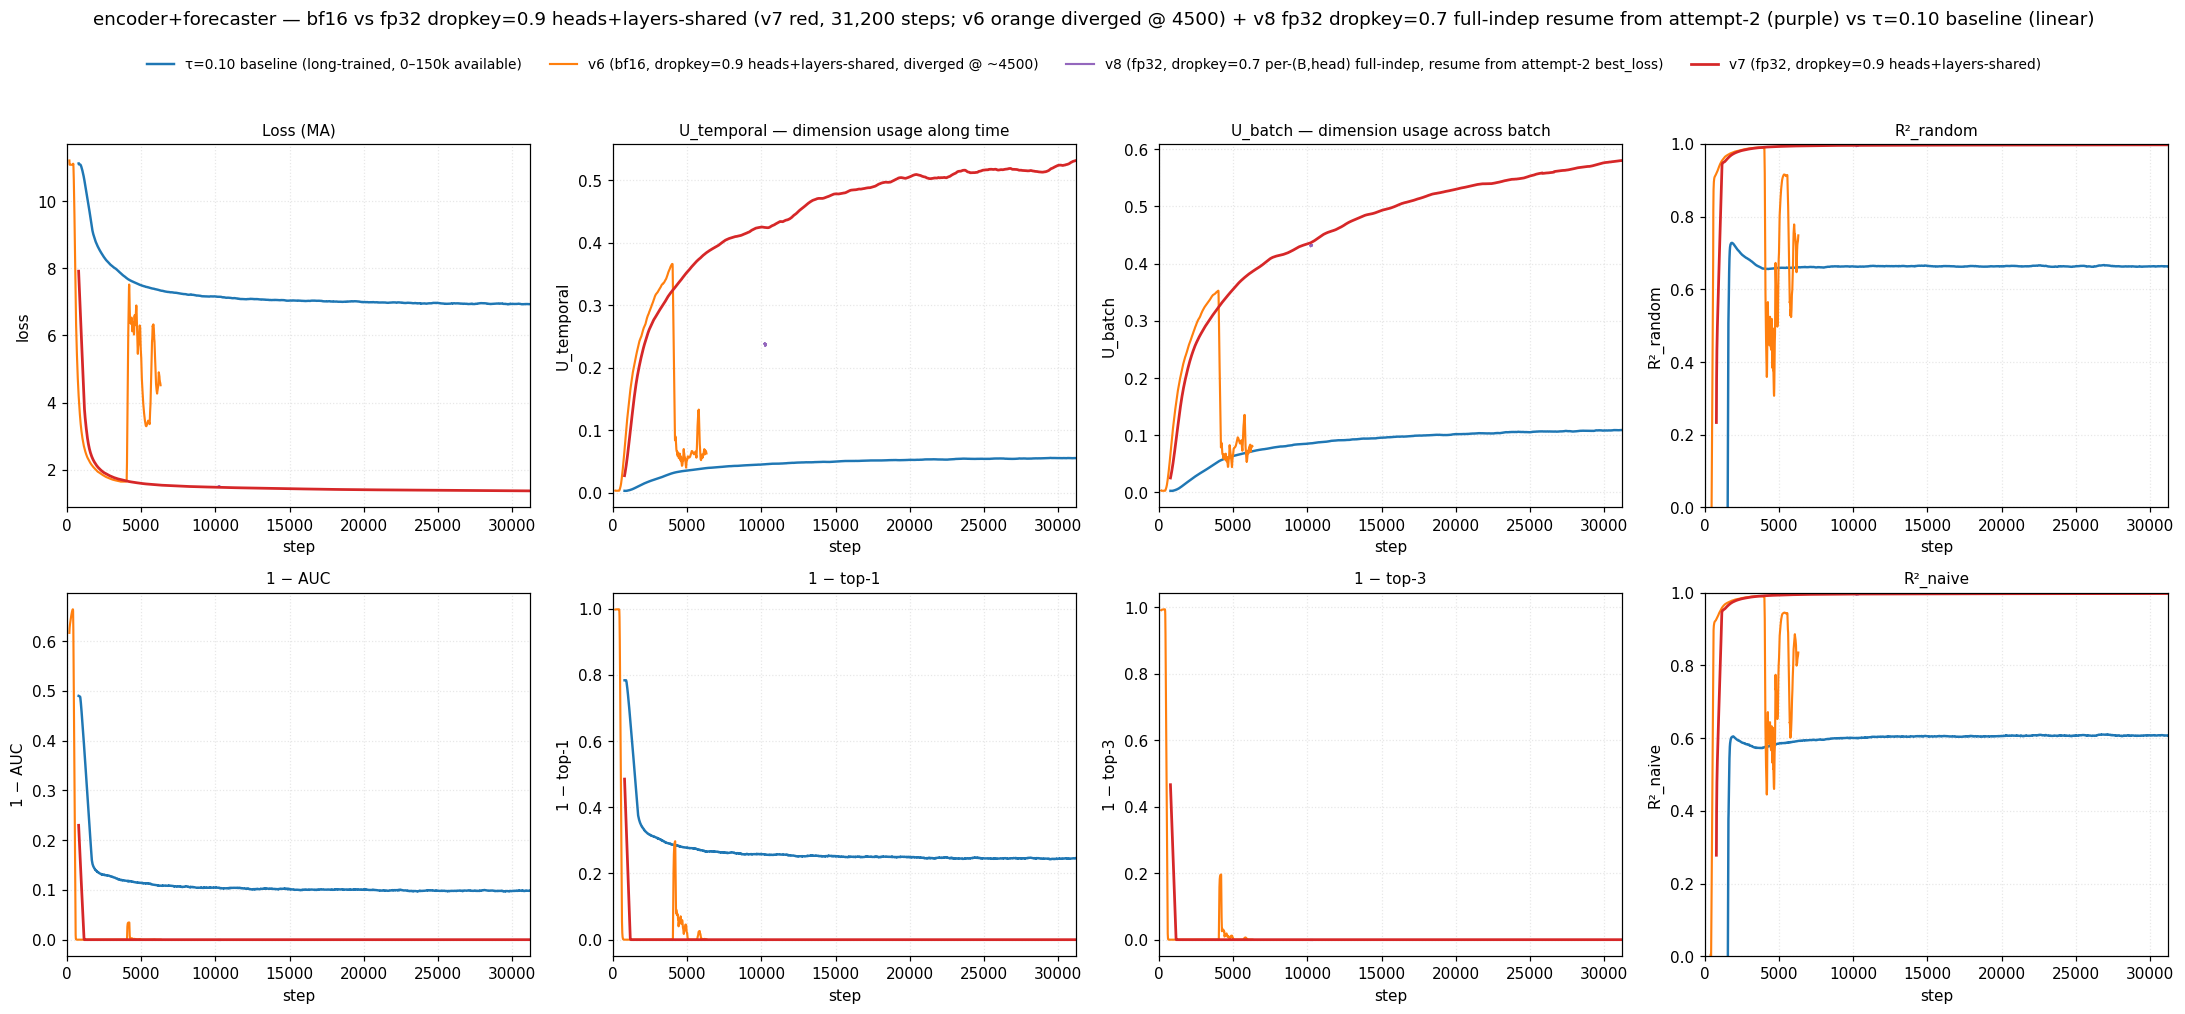
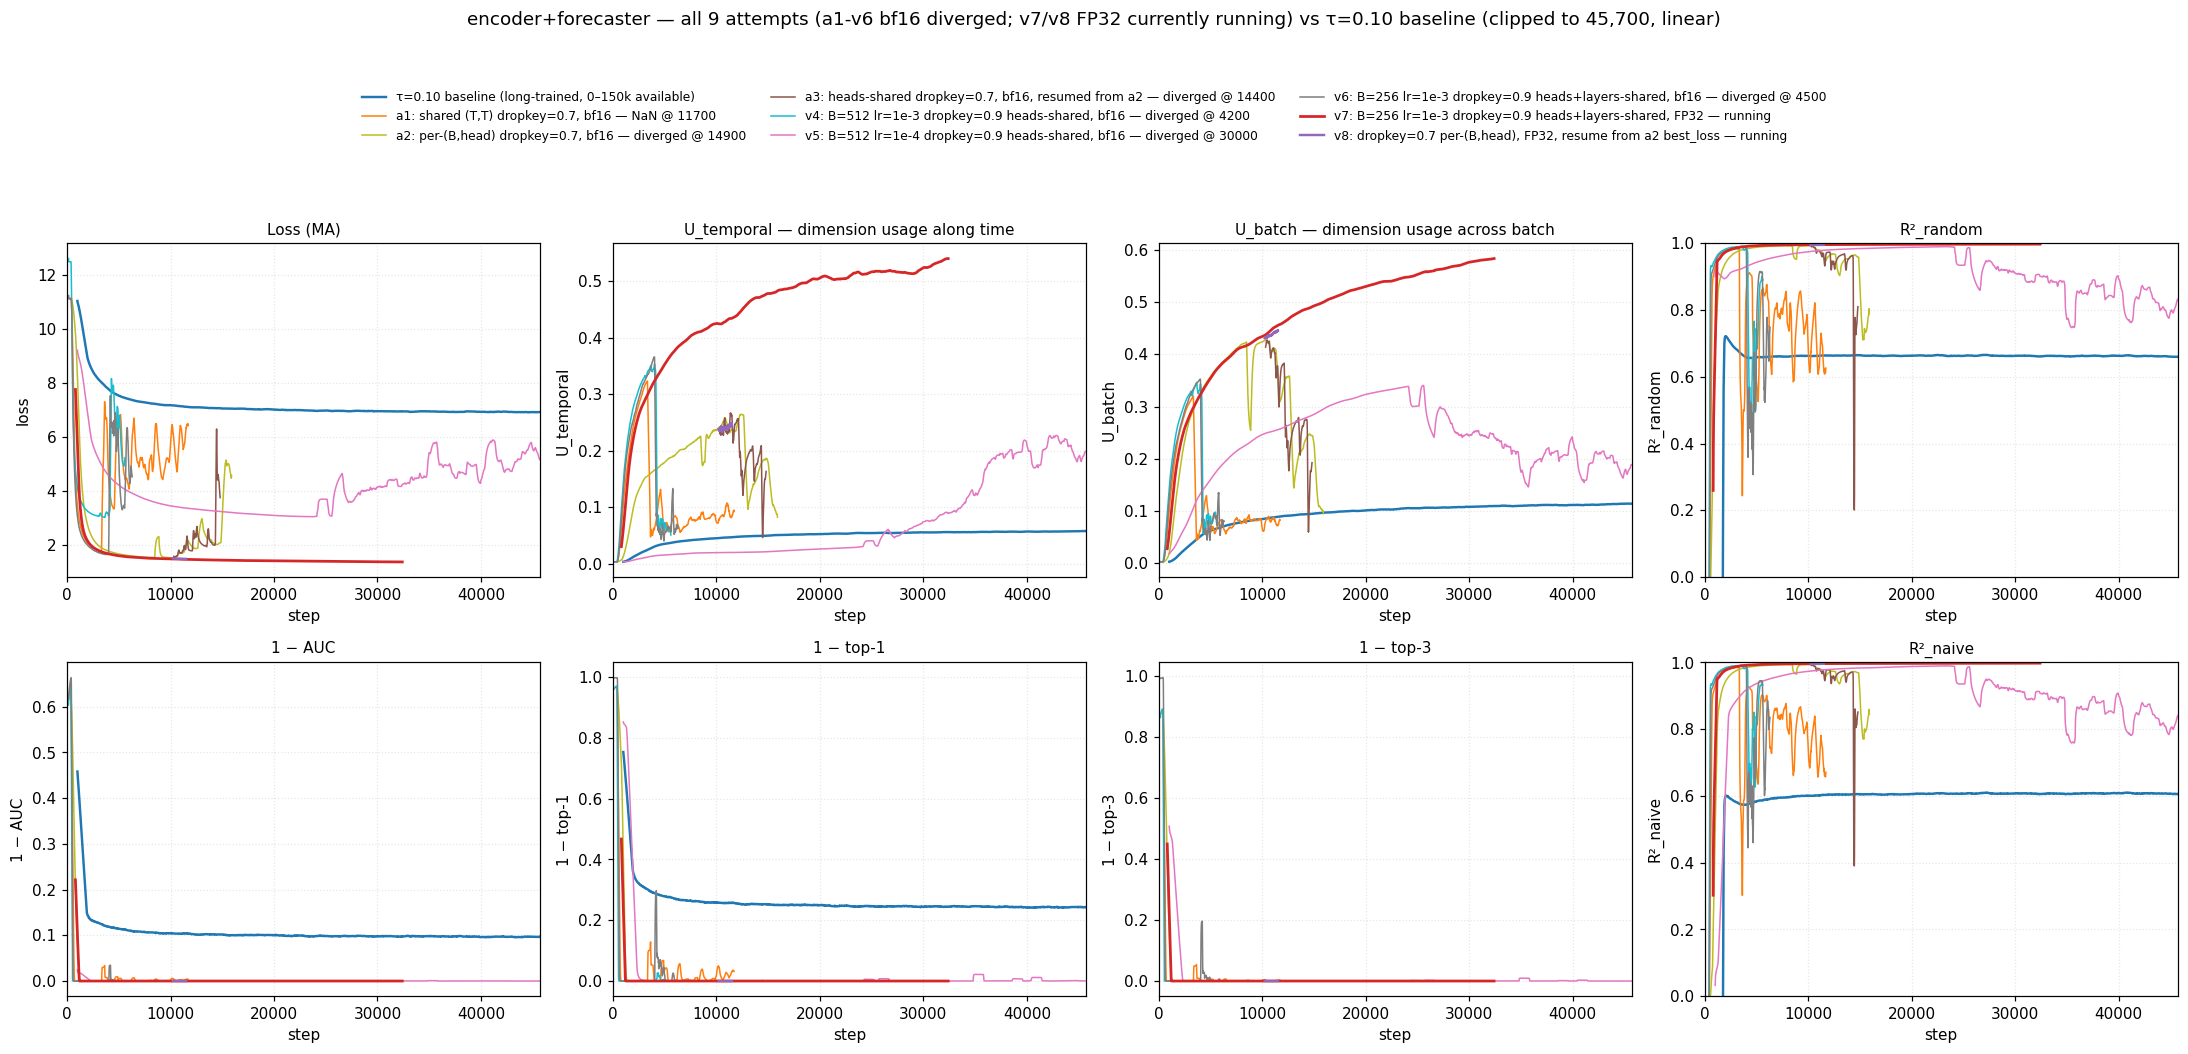
plot: full 9-arm history view (a1/a2/a3/v4/v5/v6 diverged bf16, v7/v8 fp32 live)

diff --git a/experiments/2026-05-11_exp_encoder_forecaster/scripts/plot_progress.py b/experiments/2026-05-11_exp_encoder_forecaster/scripts/plot_progress.py
@@ -1,5 +1,5 @@
 #!/usr/bin/env python3
-"""Progress plot — 3-arm comparison: baseline / v6 bf16 / v7 fp32.
+"""Progress plot — 9-arm full-history comparison.
 
 Reads per-step training-batch metrics from the losses CSVs and renders a
 2x4 panel of trajectories smoothed with a moving average:
@@ -63,13 +63,17 @@ OUT_LOG.parent.mkdir(parents=True, exist_ok=True)
 MAIN = Path("/home/jupyter/contrastive-forecasting")
 
 # Color palette: saturated, high-contrast.
-#   - τ=0.10 baseline (long-trained, concatenated chunks) → tab:blue
-#   - v6 (bf16, dropkey=0.9 heads+layers-shared, diverged @ ~4500) → tab:orange
-#   - v7 / headline (fp32, dropkey=0.9 heads+layers-shared) → tab:red
+# 9-arm full history. Diverged/dead arms (a1..v6) use lw=1.0 to recede;
+# live arms v7 (red) and v8 (purple) get heavier strokes.
 C_BASELINE = "#1f77b4"  # tab:blue
-C_V6 = "#ff7f0e"  # tab:orange
-C_V7 = "#d62728"  # tab:red
-C_V8 = "#9467bd"  # purple
+C_A1 = "#ff7f0e"        # orange
+C_A2 = "#bcbd22"        # olive
+C_A3 = "#8c564b"        # brown
+C_V4 = "#17becf"        # cyan
+C_V5 = "#e377c2"        # pink
+C_V6 = "#7f7f7f"        # grey
+C_V7 = "#d62728"        # red (headline live)
+C_V8 = "#9467bd"        # purple (live)
 
 # τ=0.10 baseline is split across resume chunks. Concatenate in step
 # order; on overlap, the earliest chunk's row wins.
@@ -80,28 +84,55 @@ BASELINE_CHUNKS = [
     MAIN / "sync_tau_sweep_0_10_150k/checkpoints/tau_sweep_0_10_150k_losses.csv",   # 48001–150000
 ]
 
+A1_CSV = MAIN / "checkpoints/enc_fcst_dropkey07_50k_attempt1_losses.csv"
+A2_CSV = MAIN / "checkpoints/enc_fcst_dropkey07_pb_50k_attempt2_losses.csv"
+A3_CSV = MAIN / "checkpoints/enc_fcst_dropkey07_pb_hs_50k_attempt3_losses.csv"
+V4_CSV = MAIN / "checkpoints/enc_fcst_dk09_hs_b512_lr1e-3_attempt1_losses.csv"
+V5_CSV = MAIN / "checkpoints/enc_fcst_dk09_hs_b512_lr1e-4_50k_attempt1_losses.csv"
 V6_CSV = MAIN / "checkpoints/enc_fcst_dk09_hsl_b256_50k_bf16_attempt1_losses.csv"
 V7_CSV = MAIN / "checkpoints/enc_fcst_dk09_hsl_b256_fp32_50k_losses.csv"
 V8_CSV = MAIN / "checkpoints/enc_fcst_dk07_pb_fp32_resume_50k_losses.csv"
 NEW_ARM_CSV = V7_CSV
 
 # (display_label, color, linestyle, lw, csv_path_or_chunks, is_concat)
+# Order: chronological (baseline → a1 → a2 → a3 → v4 → v5 → v6 → v7 → v8).
+# Diverged arms (a1..v6) get lw=1.0 so they recede behind the live arms.
 ARMS = [
     ("τ=0.10 baseline (long-trained, 0–150k available)",
      C_BASELINE, "-", 1.6,
      BASELINE_CHUNKS,
      True),
-    ("v6 (bf16, dropkey=0.9 heads+layers-shared, diverged @ ~4500)",
-     C_V6, "-", 1.4,
+    ("a1: shared (T,T) dropkey=0.7, bf16 — NaN @ 11700",
+     C_A1, "-", 1.0,
+     A1_CSV,
+     False),
+    ("a2: per-(B,head) dropkey=0.7, bf16 — diverged @ 14900",
+     C_A2, "-", 1.0,
+     A2_CSV,
+     False),
+    ("a3: heads-shared dropkey=0.7, bf16, resumed from a2 — diverged @ 14400",
+     C_A3, "-", 1.0,
+     A3_CSV,
+     False),
+    ("v4: B=512 lr=1e-3 dropkey=0.9 heads-shared, bf16 — diverged @ 4200",
+     C_V4, "-", 1.0,
+     V4_CSV,
+     False),
+    ("v5: B=512 lr=1e-4 dropkey=0.9 heads-shared, bf16 — diverged @ 30000",
+     C_V5, "-", 1.0,
+     V5_CSV,
+     False),
+    ("v6: B=256 lr=1e-3 dropkey=0.9 heads+layers-shared, bf16 — diverged @ 4500",
+     C_V6, "-", 1.0,
      V6_CSV,
      False),
-    ("v8 (fp32, dropkey=0.7 per-(B,head) full-indep, resume from attempt-2 best_loss)",
-     C_V8, "-", 1.4,
-     V8_CSV,
-     False),
-    ("v7 (fp32, dropkey=0.9 heads+layers-shared)",
+    ("v7: B=256 lr=1e-3 dropkey=0.9 heads+layers-shared, FP32 — running",
      C_V7, "-", 1.8,
      V7_CSV,
+     False),
+    ("v8: dropkey=0.7 per-(B,head), FP32, resume from a2 best_loss — running",
+     C_V8, "-", 1.6,
+     V8_CSV,
      False),
 ]
 
@@ -286,17 +317,20 @@ def render_figure(traj, *, logx, logy_metrics, out_path, scale_tag, xmax,
 
     handles, labels = ax_loss.get_legend_handles_labels()
     if handles:
+        # 9 arms with long labels — cap at 3 per row so the legend stays
+        # within the figure and doesn't overlap the panels.
+        ncol = min(3, len(handles))
         fig.legend(handles, labels, loc="upper center",
-                   ncol=len(handles), fontsize=9, frameon=False,
-                   bbox_to_anchor=(0.5, 0.985))
+                   ncol=ncol, fontsize=8, frameon=False,
+                   bbox_to_anchor=(0.5, 0.99))
 
     fig.suptitle(
-        f"encoder+forecaster — bf16 vs fp32 dropkey=0.9 heads+layers-shared "
-        f"(v7 red, {xmax:,} steps; v6 orange diverged @ 4500) + "
-        f"v8 fp32 dropkey=0.7 full-indep resume from attempt-2 (purple) "
-        f"vs τ=0.10 baseline ({scale_tag})",
-        fontsize=12, y=1.02)
-    fig.tight_layout(rect=(0, 0, 1, 0.96))
+        f"encoder+forecaster — all 9 attempts (a1-v6 bf16 diverged; "
+        f"v7/v8 FP32 currently running) vs τ=0.10 baseline "
+        f"(clipped to {xmax:,}, {scale_tag})",
+        fontsize=12, y=1.06)
+    # Extra top margin so the 3-row legend doesn't overlap panels.
+    fig.tight_layout(rect=(0, 0, 1, 0.90))
     fig.savefig(out_path, dpi=110, bbox_inches="tight")
     plt.close(fig)
     print(f"[plot] wrote {out_path}")
@@ -311,15 +345,19 @@ def main() -> None:
         raise SystemExit("baseline chunks all missing or empty")
     new_arm_max = int(new_arm["step"].max())
     baseline_max = int(baseline["step"].max())
-    # Right edge = the most recent step among the non-baseline arms (v6 + v7 + v8).
-    # All four arms get clipped to the same window before smoothing so the
+    # Right edge = the most recent step among ALL non-baseline arms.
+    # Every arm gets clipped to the same window before smoothing so the
     # curves end at the same x. Capped at baseline_max in case anything
     # overshoots.
-    v6 = load_traj(V6_CSV)
-    v6_max = int(v6["step"].max()) if v6 is not None else 0
-    v8 = load_traj(V8_CSV)
-    v8_max = int(v8["step"].max()) if v8 is not None else 0
-    xmax = min(max(new_arm_max, v6_max, v8_max), baseline_max)
+    non_baseline_maxes: list[int] = []
+    for csv_path in (A1_CSV, A2_CSV, A3_CSV, V4_CSV, V5_CSV, V6_CSV,
+                     V7_CSV, V8_CSV):
+        t = load_traj(csv_path)
+        if t is not None and len(t["step"]) > 0:
+            non_baseline_maxes.append(int(t["step"].max()))
+    if not non_baseline_maxes:
+        raise SystemExit("no non-baseline arms loaded")
+    xmax = min(max(non_baseline_maxes), baseline_max)
 
     # Log-x lower bound: snap to the smaller of the two arms' first
     # smoothed point inside the visible window, so the [1..first_step]
